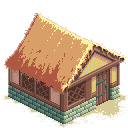
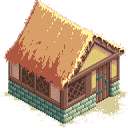
Proper building on cell

diff --git a/src/main/java/output/BuildingOutput.java b/src/main/java/output/BuildingOutput.java
@@ -5,45 +5,34 @@ import core.BuildingCore;
 import javafx.scene.image.Image;
 import javafx.scene.image.ImageView;
 import javafx.scene.input.MouseEvent;
-import javafx.scene.layout.Pane;
+import javafx.scene.paint.Color;
+import javafx.scene.paint.ImagePattern;
+import javafx.scene.shape.Polygon;
 
 import java.io.FileInputStream;
 import java.io.FileNotFoundException;
 
-public class BuildingOutput extends Pane {
-    private double x;
-    private double y;
-    private double height;
-    private double side;
-    private double pi = Math.PI;
-    private FieldOutput parentField;
-    private BuildingCore core;
+public class BuildingOutput extends Polygon {
 
     //конструктор
-    public BuildingOutput (double x, double y, double side, double height, FieldOutput field, BuildingCore core) throws FileNotFoundException {
-        //задаем параметры
-        this.x = x;
-        this. y = y;
-        this.relocate(x, y - height);
-        parentField = field;
-        this.side = side;
-        this.height = height;
-        this. core = core;
+    public BuildingOutput (double x, double y, double width, double height,double cellWidth,double cellHeight,
+                           FieldOutput field, BuildingCore core) throws FileNotFoundException {
         //отрисовываем
-        /*this.getPoints().addAll(
-                side * Math.cos(pi/ 6) , height + side * Math.sin(pi / 6),
-                0.0, height,
+        this.getPoints().addAll(
                 0.0 , 0.0,
-                side, 0.0,
-                side * (1 + Math.cos(pi/ 6)), side * Math.sin(pi / 6),
-                side * (1 + Math.cos(pi/ 6)), height+ side * Math.sin(pi / 6)
-        );*/
+                - cellWidth / 2, - cellHeight / 2,
+                - cellWidth / 2, - height,
+                cellWidth / 2, - height,
+                cellWidth / 2, - cellHeight / 2
+        );
         try {
-            ImageView imgView = new ImageView(new Image(new FileInputStream("src/main/resources/thatched.png")));
-            this.getChildren().add(imgView);
+            Image img = new Image(new FileInputStream("src/main/resources/thatched.png"));
+            this.setFill(new ImagePattern(img, cellWidth / 2, 0, width, height, false));
         } catch (FileNotFoundException e) {
             e.printStackTrace();
         }
+        //this.setFill(Color.rgb(100, 200, 100));
+        this.relocate(x - cellWidth / 2, y - height);
 
         //добавляем обработчик щелчка
         this.addEventHandler(MouseEvent.MOUSE_CLICKED, event -> {

diff --git a/src/main/java/core/BuildingCore.java b/src/main/java/core/BuildingCore.java
@@ -8,18 +8,18 @@ import java.io.FileNotFoundException;
 public class BuildingCore {
     private double x;
     private double y;
-    private double height;
-    private double side;
     private BuildingOutput output;
     private FieldOutput parentField;
+    private static double width = 128.0;
+    private static double height = 128.0;
 
-    public BuildingCore (double x, double y, double side, double height, FieldOutput field) throws FileNotFoundException {
-        output = new BuildingOutput(x, y, side, height, field, this);
+    public BuildingCore (double x, double y, double cellWidth, double cellHeight, FieldOutput field) throws FileNotFoundException {
         this.x = x;
         this.y = y;
-        this.height = height;
-        this.side = side;
         parentField = field;
+        height *= cellWidth/ width;
+        width = cellWidth;
+        output = new BuildingOutput(x, y, width, height, cellWidth, cellHeight, field, this);
     }
 
     //getters

diff --git a/src/main/java/core/CellCore.java b/src/main/java/core/CellCore.java
@@ -11,6 +11,8 @@ public class CellCore {
     private double side;
     private CellOutput output;
     private FieldOutput field;
+    private double width;
+    private double height;
     private boolean hasBuilding = false;
 
     //конструктор
@@ -19,12 +21,14 @@ public class CellCore {
         this.y = y;
         this.side = side;
         this.field = field;
+        this.width = width;
+        this.height = height;
         output = new CellOutput(x, y, width, height, color, field, this);
     }
 
     //метод для добавления здания
     public void buildBuilding () throws FileNotFoundException {
-        BuildingCore house = new BuildingCore(x, y, side, 2 * side, field);
+        BuildingCore house = new BuildingCore(x, y, width,  height, field);
         hasBuilding = true;
         field.add(house.getOutput());
     }

diff --git a/src/main/java/render/GameApplication.java b/src/main/java/render/GameApplication.java
@@ -15,7 +15,7 @@ import javafx.stage.Stage;
 public class GameApplication {
     //задаем параметры создания игрвого поля
     static final double indent = 50;
-    static final int fieldSize = 20;
+    static final int fieldSize = 5;
     static final double paneWidth = 1000 ;
     static final double paneSide = paneWidth / (2 * Math.cos(Math.PI / 6));
     static double paneHeight = 2 * paneSide * Math.sin(Math.PI / 6);
